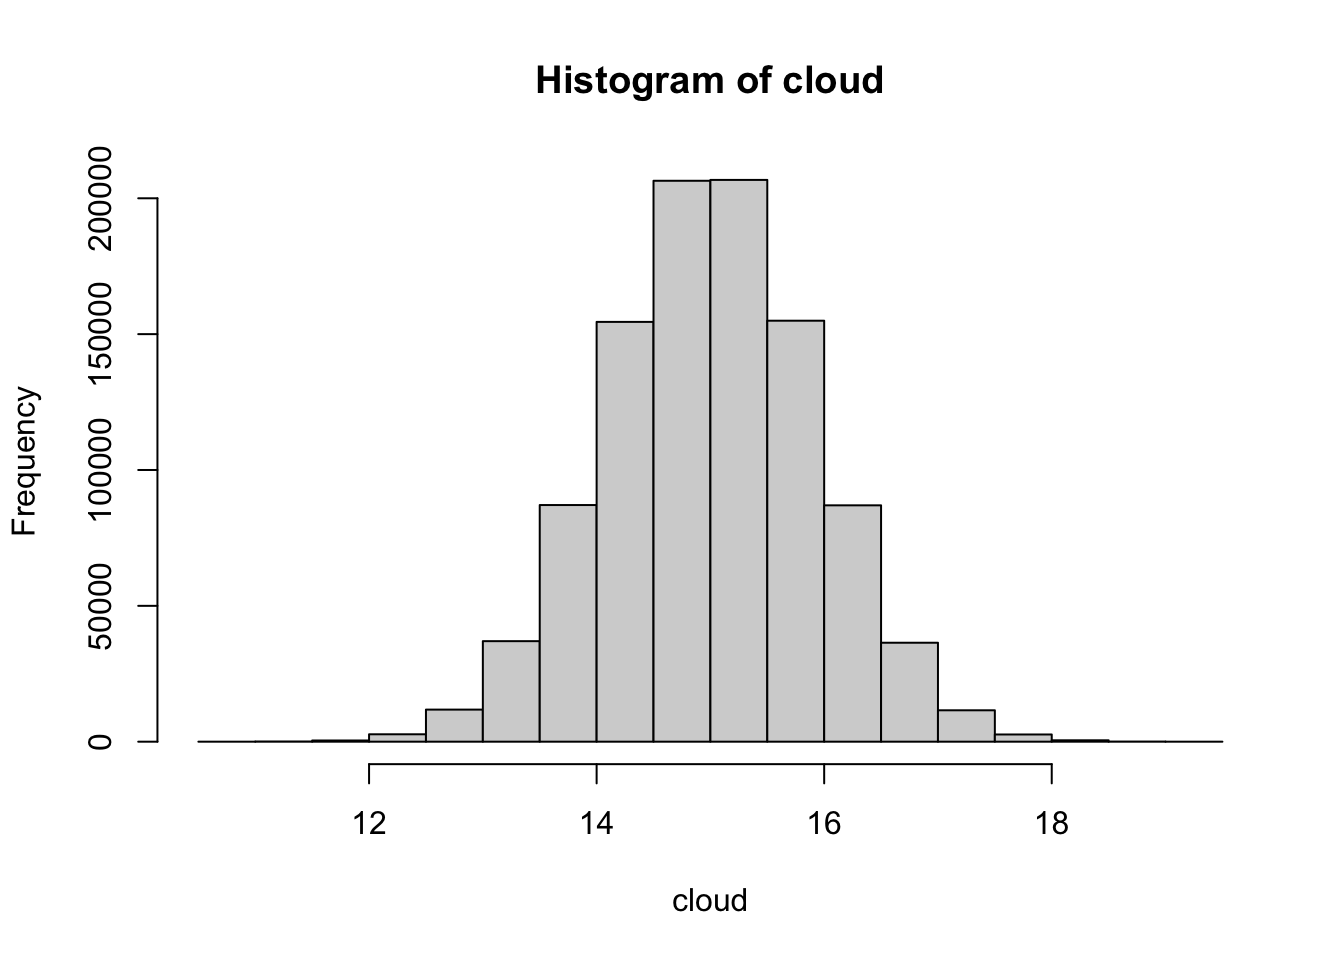
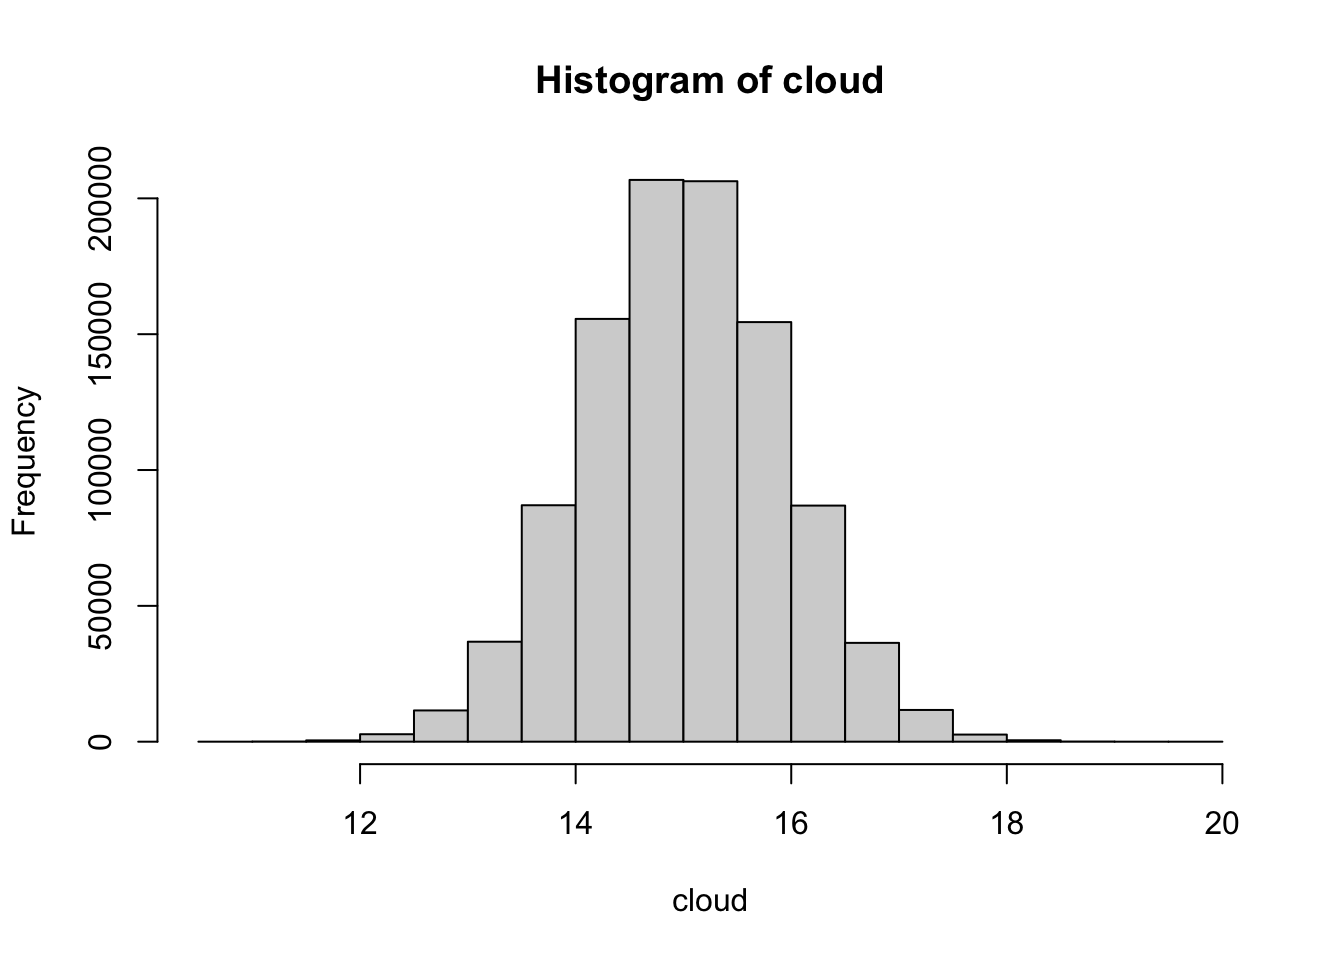
Tweak

diff --git a/index.html b/index.html
@@ -240,7 +240,7 @@ pre > code.sourceCode > span > a:first-child::before { text-decoration: underlin
 <span><span class="co"># Have a look a the cloud (distribution)</span></span>
 <span><span class="fu"><a href="https://rdrr.io/r/utils/head.html">head</a></span><span class="op">(</span><span class="va">cloud</span><span class="op">)</span></span></code><button title="Copy to Clipboard" class="code-copy-button"><i class="bi"></i></button></pre></div>
 <div class="cell-output cell-output-stdout">
-<pre><code>[1] 15.75314 15.09224 16.43036 15.47706 13.93733 16.03827</code></pre>
+<pre><code>[1] 14.78273 15.89007 14.36029 13.89966 14.17545 16.17508</code></pre>
 </div>
 <div class="sourceCode" id="cb6"><pre class="downlit sourceCode r code-with-copy"><code class="sourceCode R"><span><span class="fu"><a href="https://rdrr.io/r/graphics/hist.html">hist</a></span><span class="op">(</span><span class="va">cloud</span><span class="op">)</span></span></code><button title="Copy to Clipboard" class="code-copy-button"><i class="bi"></i></button></pre></div>
 <div class="cell-output-display">
@@ -280,7 +280,7 @@ pre > code.sourceCode > span > a:first-child::before { text-decoration: underlin
 <span></span>
 <span><span class="va">safe_vi</span></span></code><button title="Copy to Clipboard" class="code-copy-button"><i class="bi"></i></button></pre></div>
 <div class="cell-output cell-output-stdout">
-<pre><code>[1] 1.726227e-05</code></pre>
+<pre><code>[1] 1.723198e-05</code></pre>
 </div>
 </div>
 <p>Voila! Sampling variance for a novel effect size. Pretty magical right?</p>
@@ -327,7 +327,7 @@ Running SAFE with 1e+06 bootstraps</code></pre>
 <div class="cell-output cell-output-stdout">
 <pre style="font-size: 0.7em"><code>    yi_first yi_second    vi_first   vi_second   yi_safe     vi_safe    SE_safe
        &lt;num&gt;     &lt;num&gt;       &lt;num&gt;       &lt;num&gt;     &lt;num&gt;       &lt;num&gt;      &lt;num&gt;
-1: 0.6072859 0.6058845 0.003606517 0.003611733 0.6058664 0.003635987 0.06029914</code></pre>
+1: 0.6072859 0.6058845 0.003606517 0.003611733 0.6059281 0.003636279 0.06030157</code></pre>
 </div>
 </div>
 <p>The function also works with a vector of raw data:</p>
@@ -346,9 +346,9 @@ Running SAFE with 1e+06 bootstraps</code></pre>
 <div class="cell-output cell-output-stdout">
 <pre style="font-size: 0.7em"><code>    yi_first yi_second  vi_first vi_second   yi_safe   vi_safe   SE_safe
        &lt;num&gt;     &lt;num&gt;     &lt;num&gt;     &lt;num&gt;     &lt;num&gt;     &lt;num&gt;     &lt;num&gt;
-1:  3.912937  3.835196 0.3014615 0.2975274  3.821830 0.3652774 0.6043818
-2: -3.167230 -3.094698 0.2686568 0.2633745 -3.408421 0.2533021 0.5032913
-3: -1.545312 -1.512893 0.1387221 0.1343396 -1.540059 0.1406389 0.3750185</code></pre>
+1:  3.912937  3.835196 0.3014615 0.2975274  3.821249 0.3646683 0.6038777
+2: -3.167230 -3.094698 0.2686568 0.2633745 -3.408925 0.2523589 0.5023534
+3: -1.545312 -1.512893 0.1387221 0.1343396 -1.541317 0.1409700 0.3754598</code></pre>
 </div>
 </div>
 <p>For a full list of options that eff_size can calculate, run:</p>
@@ -650,7 +650,7 @@ Returning effect size names &amp; required variables for reference.</code></pre>
 </div>
 <p>This indicates that the least biased estimator is the first order definition formula (light blue). SAFE (red) and the 2nd order plugin (navy blue) perform similarly. These bias values are incredibly small, indicating that all options are fair, except for at low sample sizes, when the first-order definition formula is quite biased.</p>
 </section><section id="sampling-variance-bias" class="level3"><h3 class="anchored" data-anchor-id="sampling-variance-bias">Sampling variance bias</h3>
-<p>Interestingly, there is no way to know the ‘true’ estimand for sampling variance. <strong>WHICH I DON’T FULLY UNDERSTAND</strong>. To calculate bias for our sampling variance estimates, we actually calculate the variance in point estimates for each estimator and use <em>each</em> of these as the estimand. With 3 estimators, and thus 3 estimands, we’ll thus end up with 9 calculations of bias.</p>
+<p>Interestingly, there is no way to know the ‘true’ estimand for sampling variance. <strong>I don’t know how to explain this better…</strong>. To calculate bias for our sampling variance estimates, we actually calculate the variance in point estimates for each estimator and use <em>each</em> of these as the estimand. With 3 estimators, and thus 3 estimands, we’ll thus end up with 9 calculations of bias.</p>
 <p>Since we’re interested in relative bias (<strong>Not entirely sure why</strong>), we’ll calculate bias as above but divide by the estimand and multiply by 100.</p>
 <div class="cell">
 <div class="sourceCode" id="cb34" style="font-size: 0.8em;"><pre class="downlit sourceCode r code-with-copy"><code class="sourceCode R"><span><span class="co"># First, calculate variance in point estimates as our 'estimand'</span></span>
@@ -2127,7 +2127,7 @@ window.document.addEventListener("DOMContentLoaded", function (event) {
 <span id="cb52-511"><a href="#cb52-511" aria-hidden="true" tabindex="-1"></a></span>
 <span id="cb52-512"><a href="#cb52-512" aria-hidden="true" tabindex="-1"></a><span class="fu">### Sampling variance bias</span></span>
 <span id="cb52-513"><a href="#cb52-513" aria-hidden="true" tabindex="-1"></a></span>
-<span id="cb52-514"><a href="#cb52-514" aria-hidden="true" tabindex="-1"></a>Interestingly, there is no way to know the 'true' estimand for sampling variance. **WHICH I DON'T FULLY UNDERSTAND**. To calculate bias for our sampling variance estimates, we actually calculate the variance in point estimates for each estimator and use *each* of these as the estimand. With 3 estimators, and thus 3 estimands, we'll thus end up with 9 calculations of bias.</span>
+<span id="cb52-514"><a href="#cb52-514" aria-hidden="true" tabindex="-1"></a>Interestingly, there is no way to know the 'true' estimand for sampling variance. **I don't know how to explain this better...**. To calculate bias for our sampling variance estimates, we actually calculate the variance in point estimates for each estimator and use *each* of these as the estimand. With 3 estimators, and thus 3 estimands, we'll thus end up with 9 calculations of bias.</span>
 <span id="cb52-515"><a href="#cb52-515" aria-hidden="true" tabindex="-1"></a></span>
 <span id="cb52-516"><a href="#cb52-516" aria-hidden="true" tabindex="-1"></a>Since we're interested in relative bias (**Not entirely sure why**), we'll calculate bias as above but divide by the estimand and multiply by 100.</span>
 <span id="cb52-517"><a href="#cb52-517" aria-hidden="true" tabindex="-1"></a></span>
